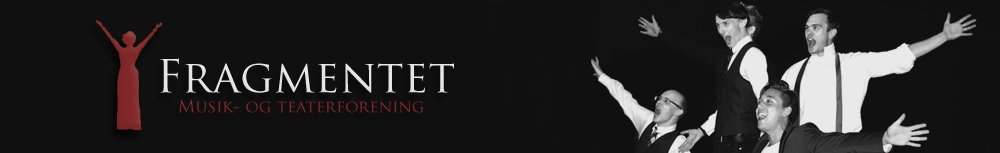
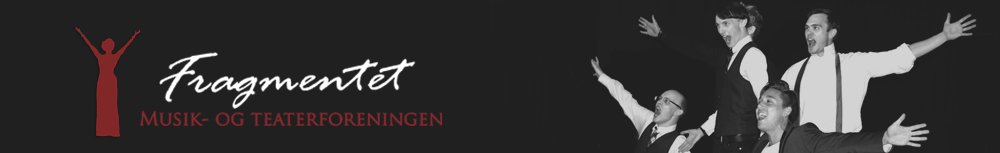
facebookbutton og ny header.

diff --git a/core/templates/base.html b/core/templates/base.html
@@ -48,9 +48,10 @@
         {% block content %}{% endblock %}
     </div>
     <img id="loading-image" src={% static 'images/loading.gif' %}>
+    <div id="footer">
+        <p>Musik og -teaterforeningen Fragmentet</p>
+        <p>Bestyrelse@fragmentet.dk</p>
+    </div>
 </div>
-    {% block footer %}
-    <p></p>
-    {% endblock %}
 </body>
 </html>

diff --git a/core/static/style.css b/core/static/style.css
@@ -604,7 +604,15 @@ p,a,h1,h2,h3,h4 {
 
 
 
-        /* kontakt */
+       /* footer */
 
 
+#footer {
+    height: 40px;
+    margin-top: 40px;
+    background: #303030;
+}
 
+#footer p {
+
+}
